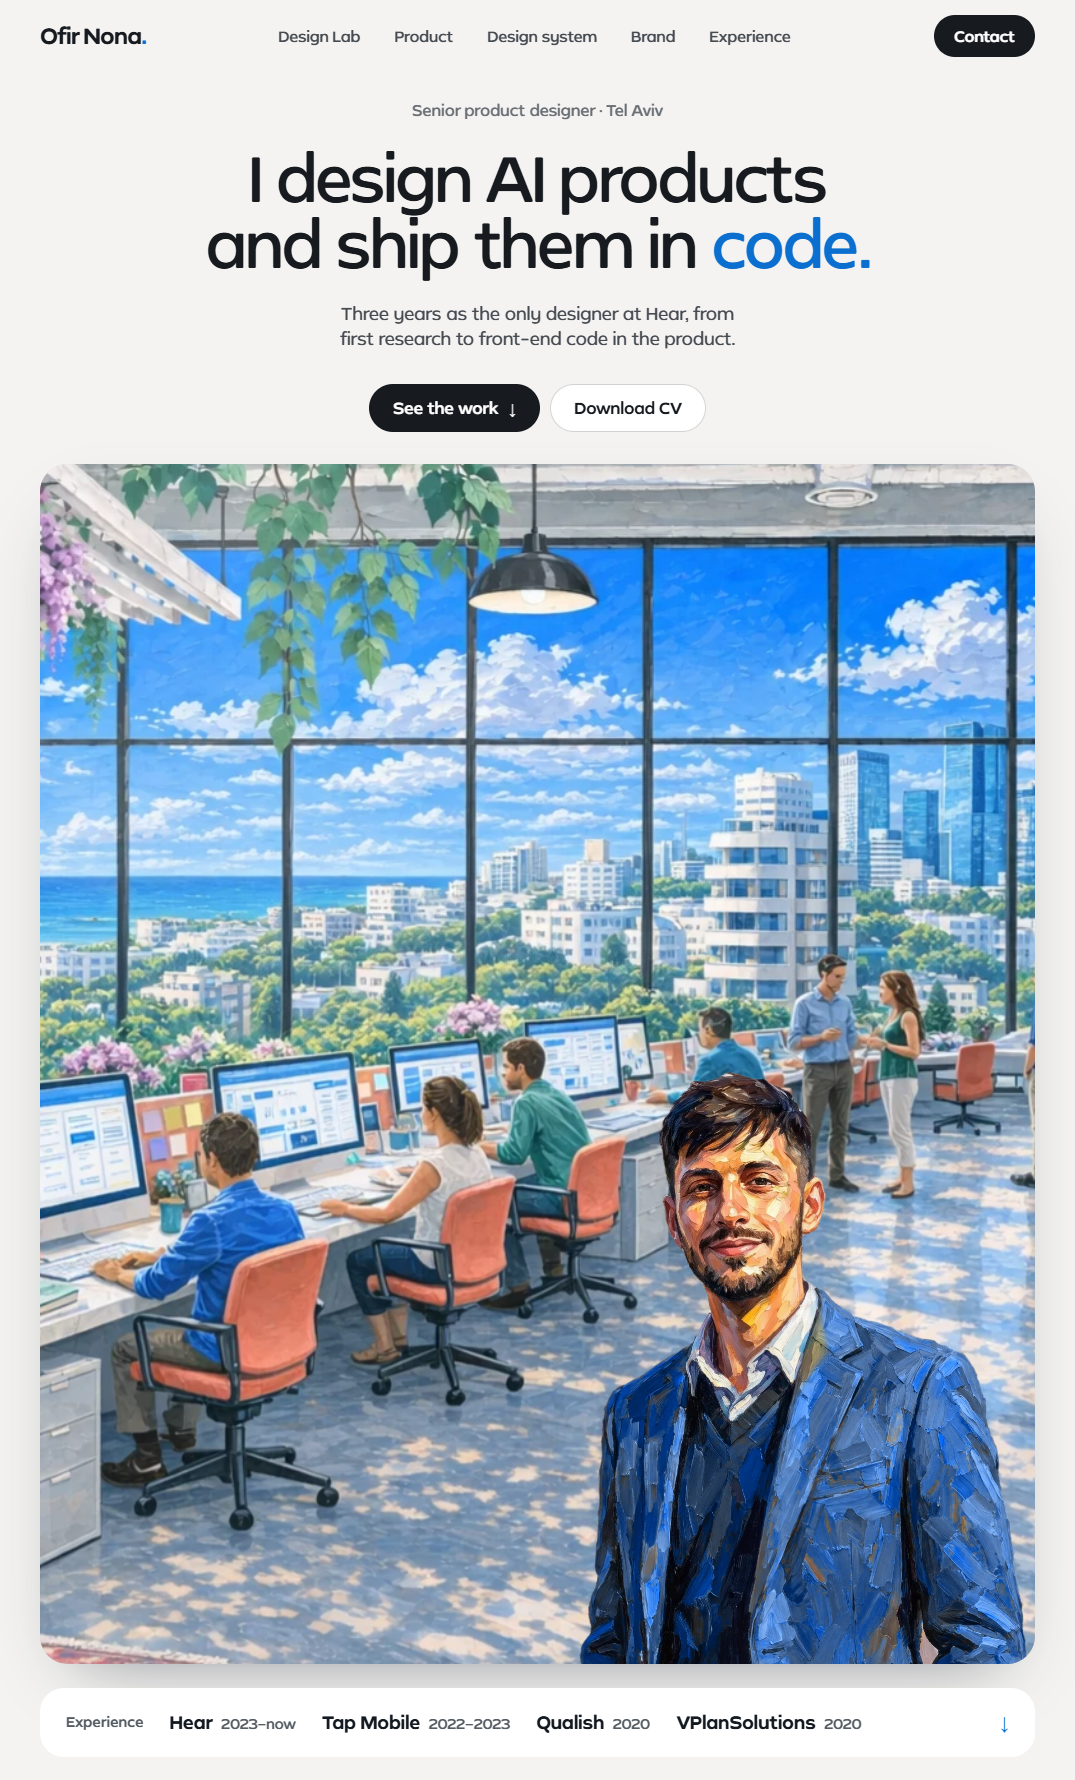
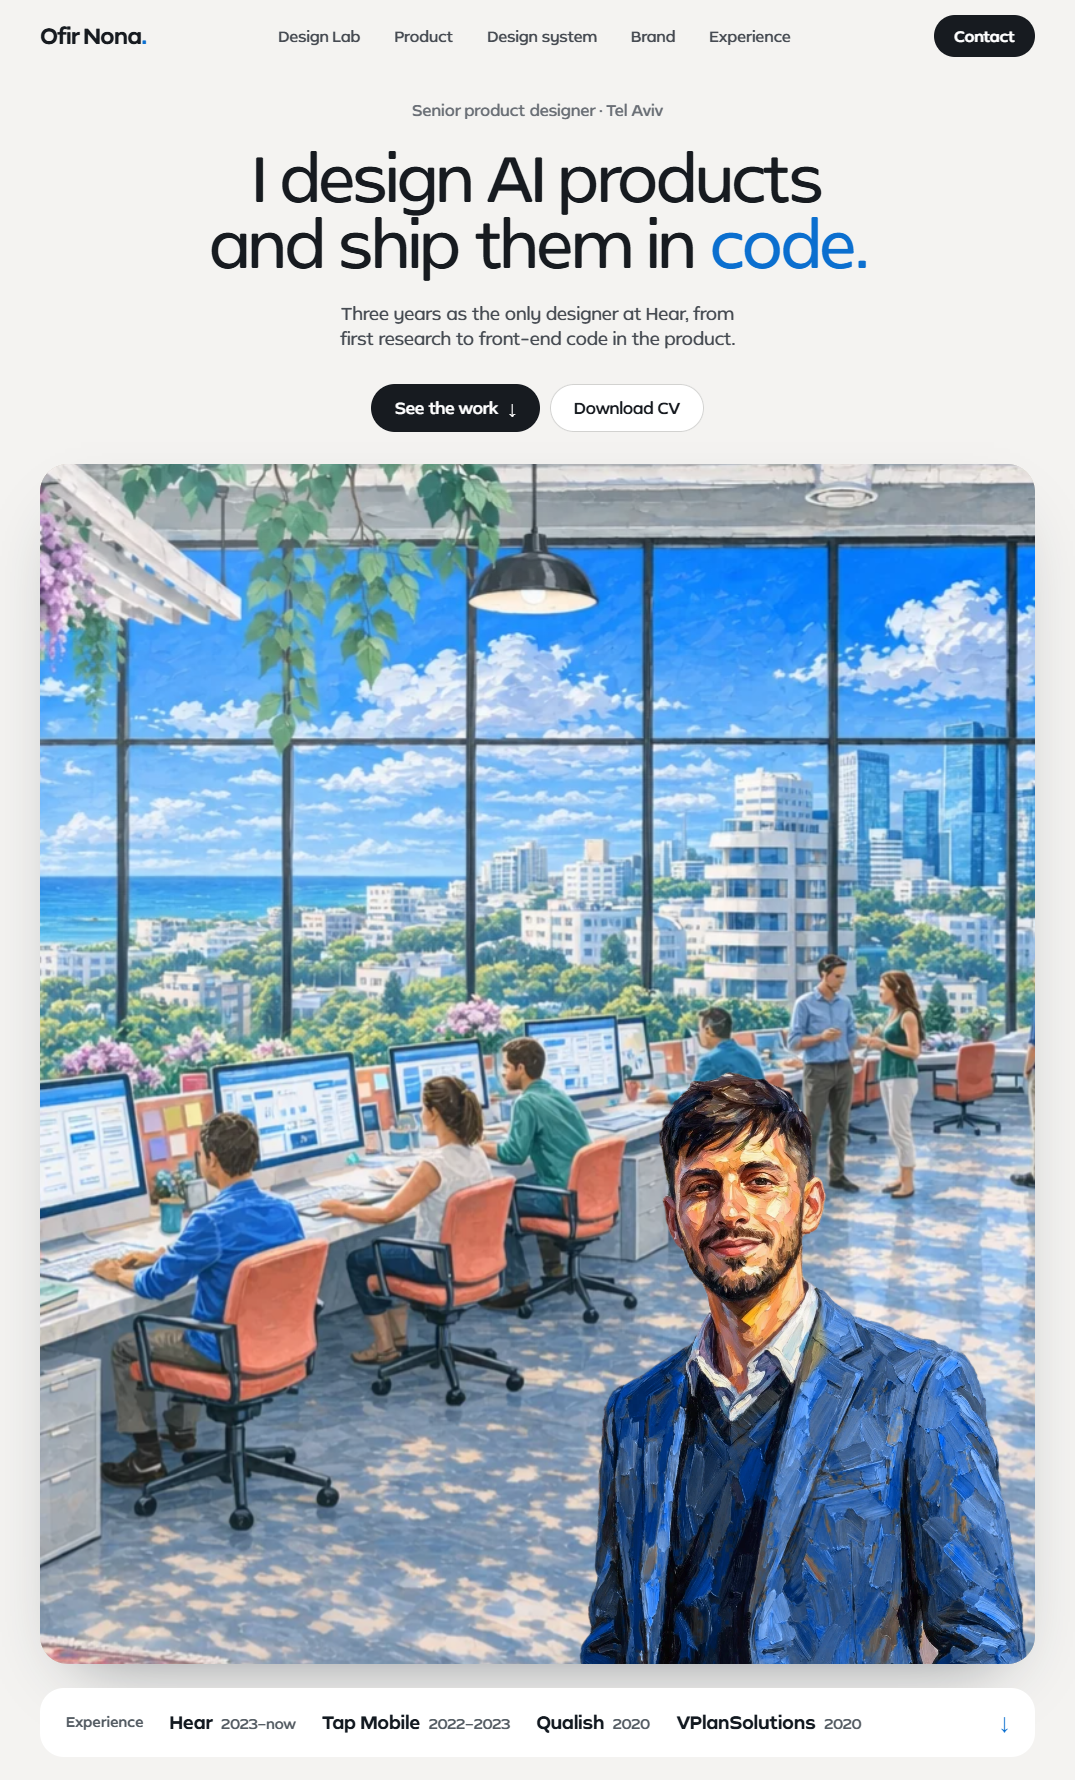
Opening: headline at Hear's regular weight, lighter buttons

diff --git a/v7/hero.css b/v7/hero.css
@@ -28,11 +28,11 @@
 #about{ padding-top: clamp(100px, 13vh, 120px) !important; }
 #about .hv-eye{ margin: 0; font-size: 15.5px; line-height: 1.3; font-weight: 500; color: var(--v7-muted, #6a6f76); }
 #about .hv-eye b{ font-weight: 600; color: var(--v7-blue-ink, #0b6fcf); }
-#about .hv-h{ margin: 24px 0 0 !important; max-width: none; font-size: clamp(38px, 5vw, 72px) !important; line-height: 1.06 !important; letter-spacing: -.03em !important; font-weight: 500 !important; color: var(--v7-ink, #171b20) !important; white-space: normal !important; text-wrap: balance; }
+#about .hv-h{ margin: 24px 0 0 !important; max-width: none; font-size: clamp(38px, 5vw, 72px) !important; line-height: 1.06 !important; letter-spacing: -.032em !important; font-weight: 400 !important; color: var(--v7-ink, #171b20) !important; white-space: normal !important; text-wrap: balance; }
 #about .hv-h em{ font-style: normal; color: var(--v7-blue-ink, #0b6fcf); }
 #about .me-intro .me-lead{ margin-top: 24px !important; max-width: 33em; font-size: clamp(17px, 1.4vw, 20px) !important; line-height: 1.48 !important; color: var(--v7-ink-2, #464b52) !important; }
 #about .hv-cta{ display: flex; flex-wrap: wrap; justify-content: center; gap: 10px; margin-top: 32px; }
-#about .hv-btn{ display: inline-flex; align-items: center; gap: 10px; min-height: 48px; padding: 0 24px; border-radius: 99px; font-size: 16px; font-weight: 600; letter-spacing: -.01em; text-decoration: none; transition: background-color .25s, box-shadow .25s, transform .25s; }
+#about .hv-btn{ display: inline-flex; align-items: center; gap: 10px; min-height: 48px; padding: 0 24px; border-radius: 99px; font-size: 16px; font-weight: 500; letter-spacing: -.01em; text-decoration: none; transition: background-color .25s, box-shadow .25s, transform .25s; }
 #about .hv-btn-1{ color: #fff; background: var(--v7-ink, #171b20); }
 #about .hv-btn-1:hover{ background: var(--v7-blue-ink, #0b6fcf); transform: translateY(-1px); }
 #about .hv-btn-2{ color: var(--v7-ink, #171b20); background: #fff; box-shadow: inset 0 0 0 1px var(--v7-line-2, #d2d2d0); }
@@ -75,7 +75,7 @@ html.me-scroll #about .me-facts .me-k{ font-weight: 600; color: #fff; }
   /* landscape stage */
   html.me-scroll #about .hv-b2{ display: none; }
   html.me-scroll #about .hv-b3{ display: inline; }
-  html.me-scroll #about .hv-h{ font-size: clamp(32px, 5.2cqw, 64px) !important; line-height: 1.04 !important; letter-spacing: -.035em !important; }
+  html.me-scroll #about .hv-h{ font-size: clamp(32px, 5.2cqw, 64px) !important; line-height: 1.04 !important; }
   html.me-scroll #about .me-intro .me-lead{ font-size: clamp(17px, 1.75cqw, 21px) !important; }
   html.me-scroll #about .me-intro{ width: 47%; height: calc(100% - var(--sb)); justify-content: center; transform: translateX(calc(var(--g, 0) * -60px)) !important; }
   html.me-scroll #about .me-photo.me-v7{ top: 0; height: calc(100cqh - var(--sb) * (1 - var(--g, 0))); left: calc(51% * (1 - var(--g, 0))); width: calc(49% + 51% * var(--g, 0)); }
